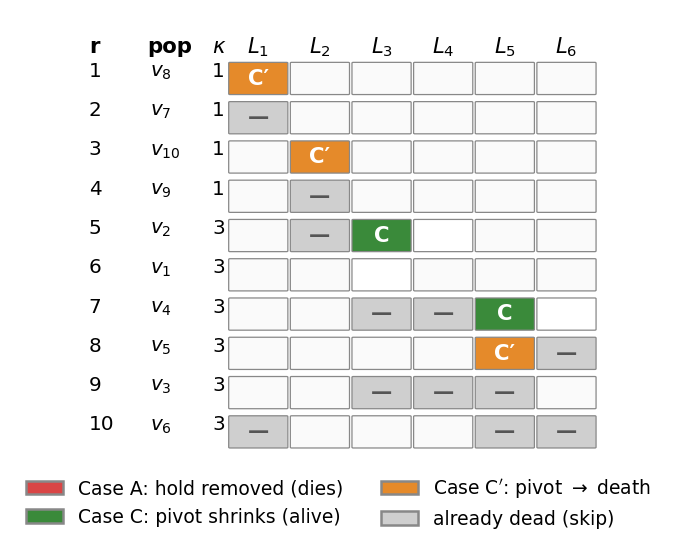
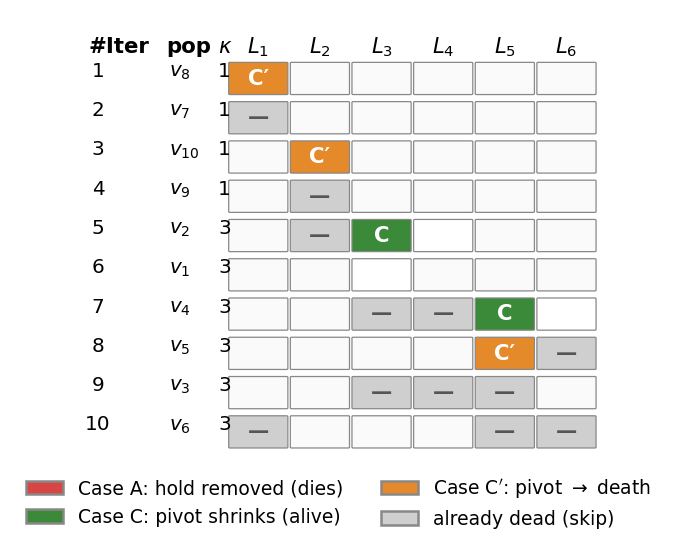
fig2: rename round column 'r' to '#Iter'
The lowercase 'r' header collided with the paper's main parameter 'r' in
(r,s)-nucleus decomposition. Relabel it as '#Iter' (iteration count of
the peel loop) and respace the leading columns so '#Iter', 'pop', and
'\kappa' read cleanly.

diff --git a/vldbNuclearR1/figures/build_fig2.py b/vldbNuclearR1/figures/build_fig2.py
@@ -77,9 +77,9 @@ COL = {
 
 # Header row: round | popped | core | L1..L6
 hdr_y = -0.6
-ax_a.text(-0.55, hdr_y, "r",         fontsize=8.5, fontweight='bold')
-ax_a.text( 0.40, hdr_y, "pop",       fontsize=8.5, fontweight='bold')
-ax_a.text( 1.45, hdr_y, r"$\kappa$", fontsize=8.5, fontweight='bold')
+ax_a.text(-0.55, hdr_y, "#Iter",     fontsize=8.5, fontweight='bold')
+ax_a.text( 0.70, hdr_y, "pop",       fontsize=8.5, fontweight='bold')
+ax_a.text( 1.55, hdr_y, r"$\kappa$", fontsize=8.5, fontweight='bold')
 for i in range(L):
     ax_a.text(2.2 + i, hdr_y, f"$L_{i+1}$", fontsize=8.5, fontweight='bold',
               ha='center')
@@ -87,9 +87,9 @@ for i in range(L):
 cell_w, cell_h = 0.92, 0.78
 for r_idx, row in enumerate(trace):
     y = r_idx
-    ax_a.text(-0.55, y, f"{row['round']}", fontsize=8.0)
-    ax_a.text( 0.45, y, f"$v_{{{row['victim']}}}$", fontsize=8.0)
-    ax_a.text( 1.45, y, f"{row['core']}", fontsize=8.0, ha='left')
+    ax_a.text(-0.40, y, f"{row['round']}", fontsize=8.0, ha='center')
+    ax_a.text( 0.75, y, f"$v_{{{row['victim']}}}$", fontsize=8.0)
+    ax_a.text( 1.55, y, f"{row['core']}", fontsize=8.0, ha='left')
     for i in range(L):
         c = case_grid[r_idx][i]
         if c is None:
